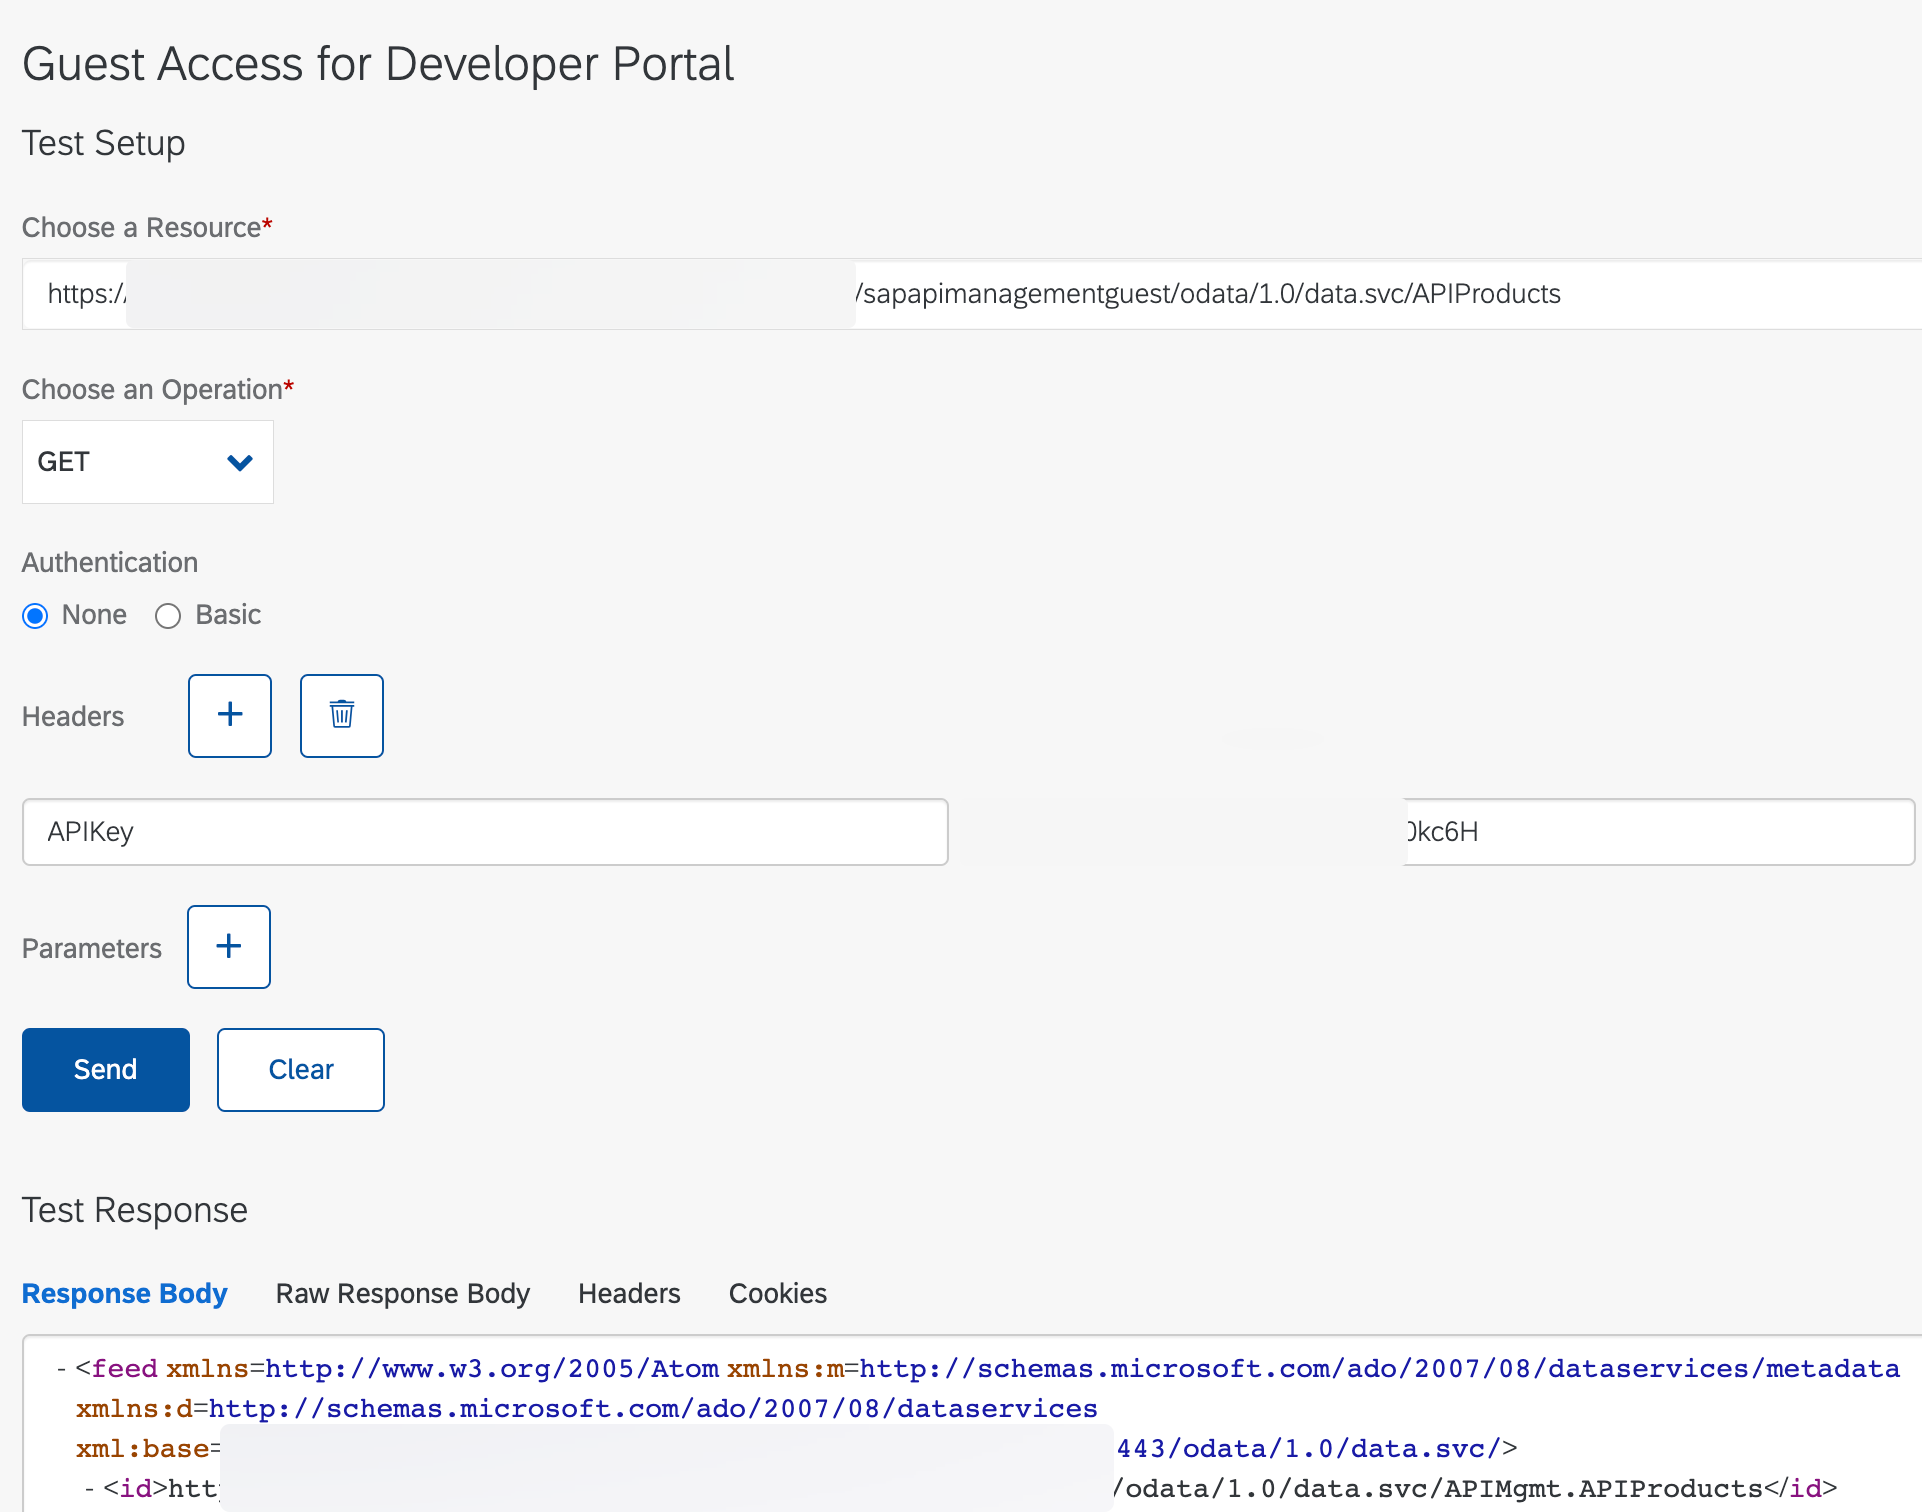
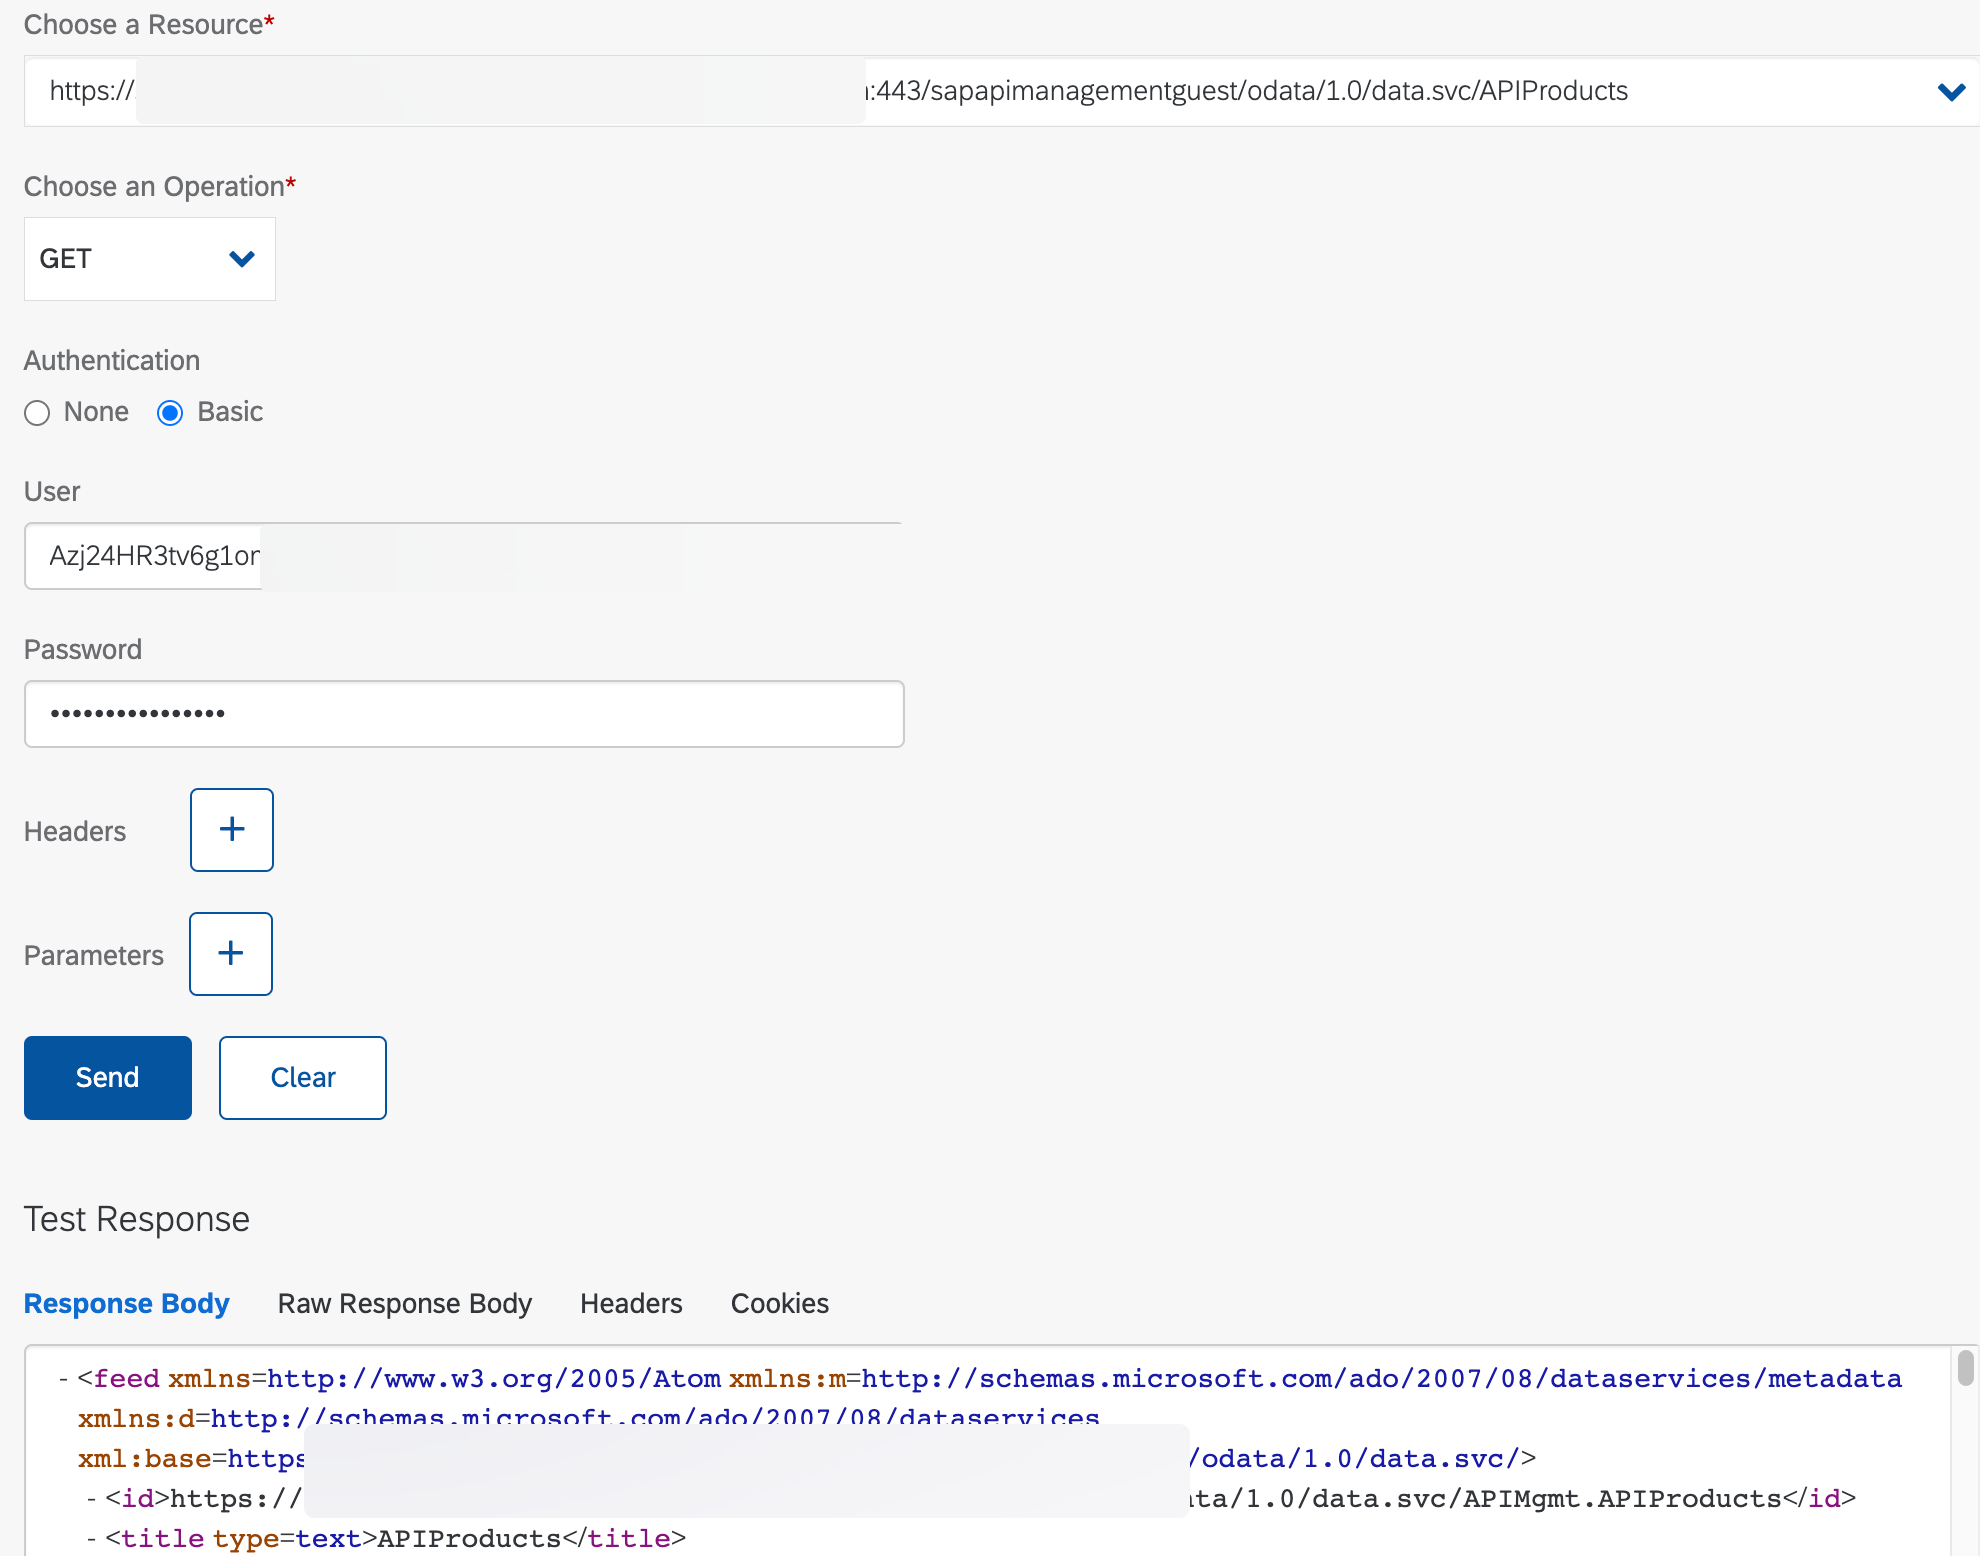
readme

diff --git a/02-LowCodeDevPortal/02-01-Prepare-api-proxy.md b/02-LowCodeDevPortal/02-01-Prepare-api-proxy.md
@@ -1,5 +1,5 @@
 # Prepare SAP API Management for service account access
-1. Import [API Proxy](https://github.com/SAP-samples/btp-create-api-integrations/raw/low-code-dev-portal/DevPortal_Guest.zip) into your instance of SAP API Management via the **Develop** menu
+1. Import [API Proxy](https://github.com/SAP-samples/btp-create-api-integrations/raw/low-code-dev-portal/DevPortal_Anonymous.zip) into your instance of SAP API Management via the **Develop** menu
 2. Update the Target EndPoint to reflect your environment. The host name depends on which region you are subscribed in and can be retrieved from the service key created in the previous section.
 3. [Implement SAP Cloud Foundry services policy](https://api.sap.com/policytemplate/SAPCloudFoundryXSUAAJWTToken) which is already included as part of the proxy file above
   - TargetEndpoint > PreFlow > getcredential > client id and secret
@@ -15,6 +15,6 @@
   - Copy the Application Key and navigate to the Test Console
   - Select the Guest Access product you created in the previous step
   - Remove **APIMgmt.** from the resource field
-  - Add APIKey header, paste value from the previous step and execute the request
+  - Enable Basic Authentication and enter the API Key and Secret in the user and password fields, respectively
 
     ![Test API](./img/TestConsole.png)
